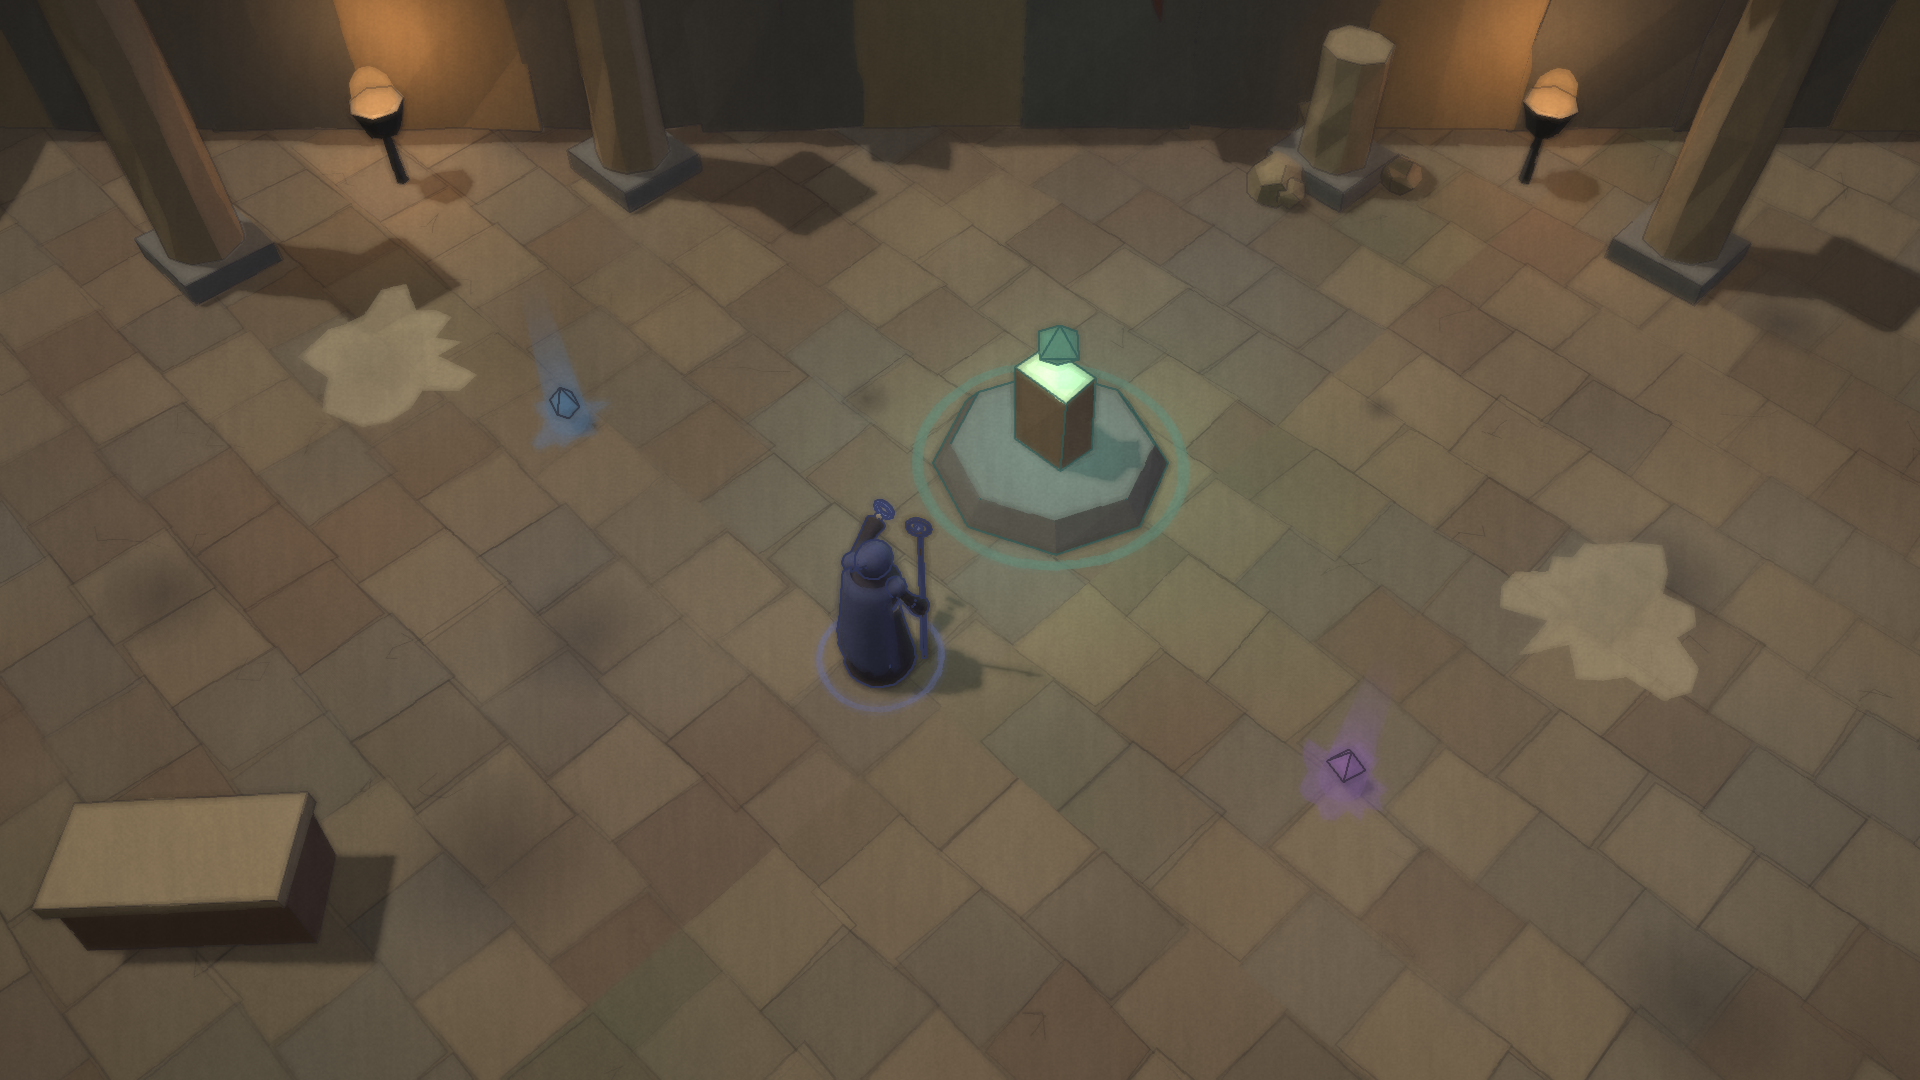
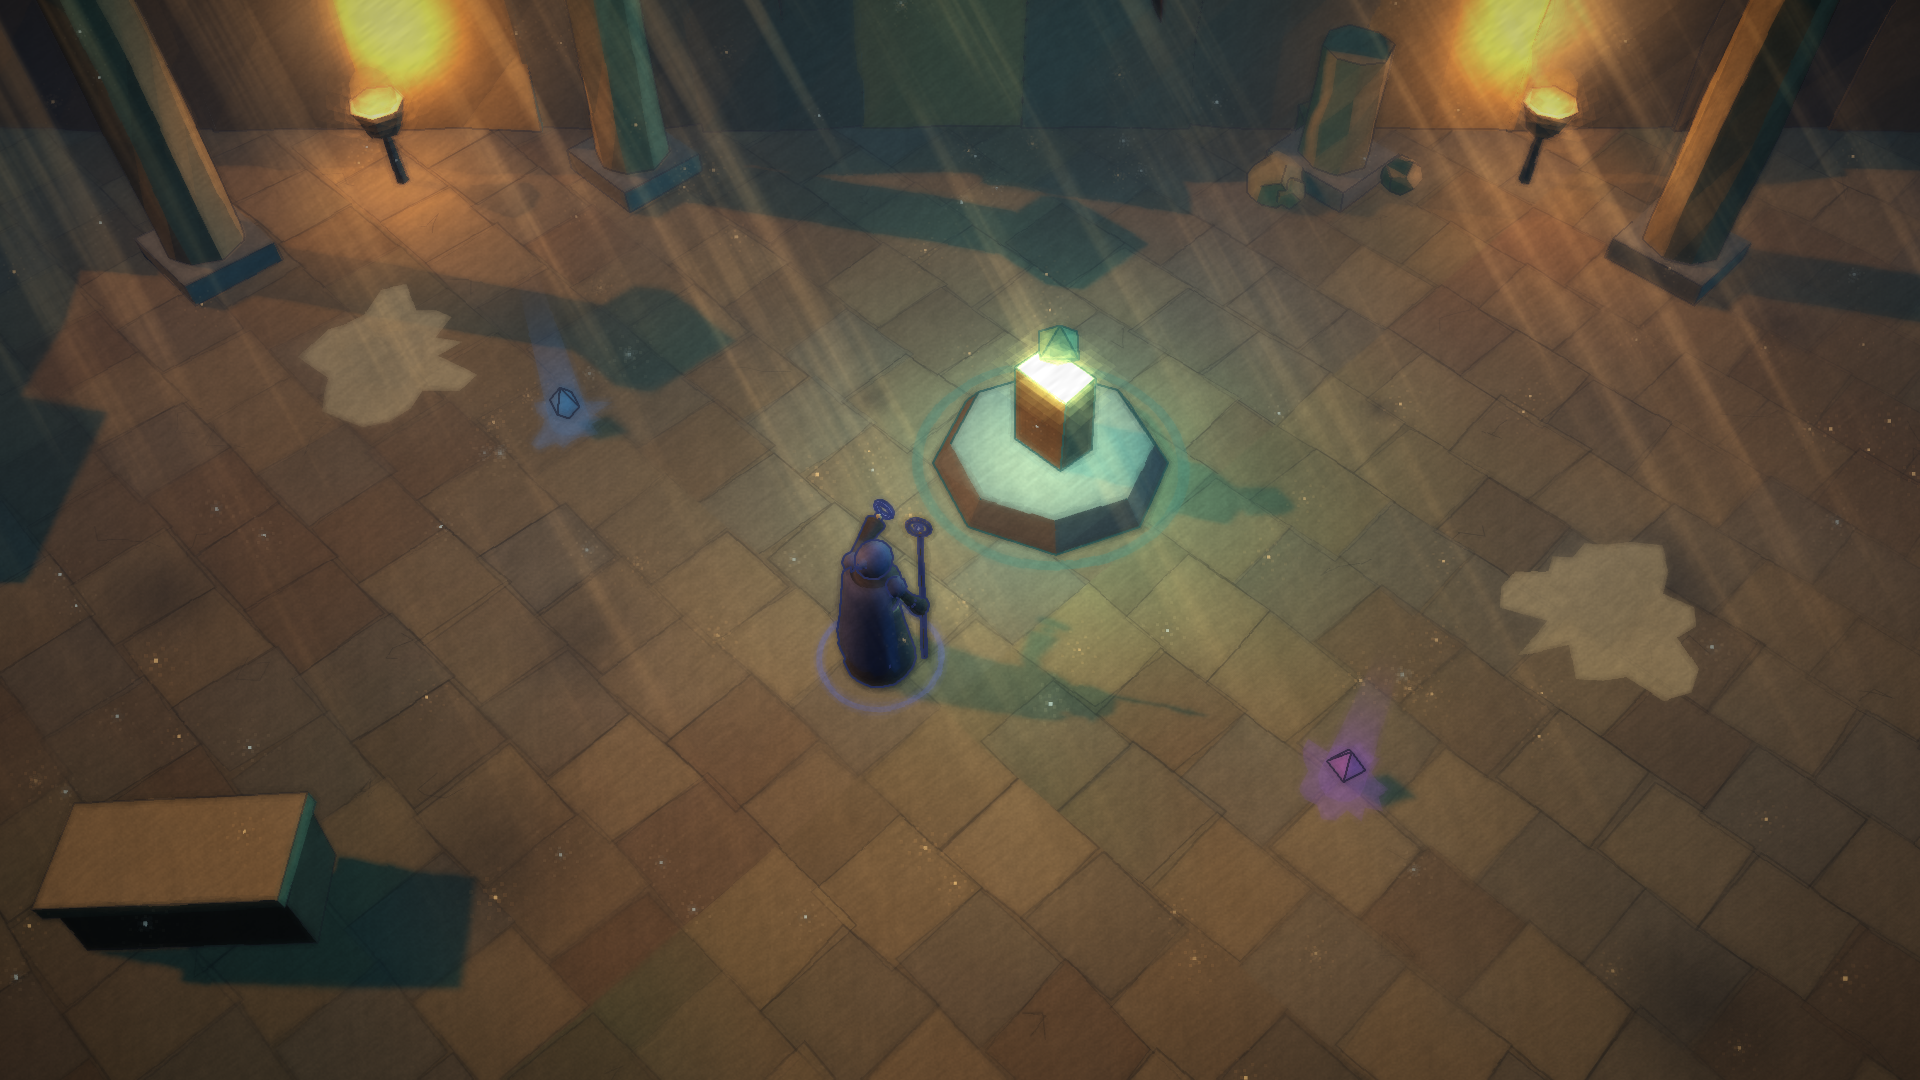
Add Midjourney-flavored cinematic grade to scene stills
Warm key, teal fill and rim, light pool, embers, bloom, haze, god rays,
split-tone grade and brush texture; style=spec keeps the restrained look.

Claude-Session: https://claude.ai/code/session_01WyumHdJ2qJjryyZvfybPmP

diff --git a/ui-mockups/scenes/scene.js b/ui-mockups/scenes/scene.js
@@ -7,6 +7,9 @@ import * as THREE from '../vendor/three.module.min.js';
 const q = new URLSearchParams(location.search);
 const SHOT = q.get('shot') || 'room';
 const COLORBLIND = q.get('cb') === '1';
+// 'mj' (default): cinematic, painterly grade in the classic Midjourney vein. 'spec': the restrained section 75-85 look.
+const STYLE = q.get('style') || 'mj';
+const MJ = STYLE === 'mj';
 const W = 1920, H = 1080;
 
 // ---------- palette (section 76) ----------
@@ -403,7 +406,7 @@ function brazier(pos) {
   g.add(mesh(new THREE.CylinderGeometry(0.05, 0.08, 0.9, 5), metal(P.coldStone), CLS.env, [0, 0.45, 0]));
   const fire = new THREE.Mesh(new THREE.SphereGeometry(0.28, 8, 6), new THREE.MeshBasicMaterial({ color: 0xe0a060, transparent: true, opacity: 0.8 }));
   fire.position.y = 1.28; fire.scale.y = 1.4; g.add(fx(fire));
-  const l = new THREE.PointLight(0xe8a868, 6, 7, 1.8); l.position.y = 1.6; g.add(l);
+  const l = new THREE.PointLight(0xe8a868, MJ ? 22 : 6, MJ ? 10 : 7, 1.8); l.position.y = 1.6; g.add(l);
   return place(g, pos);
 }
 function banner(pos, yaw) {
@@ -418,7 +421,7 @@ function shrine(pos) {
   g.add(mesh(new THREE.OctahedronGeometry(0.28, 0), mat(P.interact, { emissive: P.interact, emissiveIntensity: 0.55 }), cls, [0, 1.8, 0]));
   const ring = new THREE.Mesh(new THREE.RingGeometry(1.4, 1.52, 48), new THREE.MeshBasicMaterial({ color: P.interact, transparent: true, opacity: 0.55, depthWrite: false }));
   ring.rotation.x = -Math.PI / 2; ring.position.y = 0.02; g.add(fx(ring));
-  const l = new THREE.PointLight(0x7fc0b0, 10, 7, 1.6); l.position.y = 2; g.add(l);
+  const l = new THREE.PointLight(0x7fc0b0, MJ ? 30 : 10, MJ ? 10 : 7, 1.6); l.position.y = 2; g.add(l);
   return place(g, pos);
 }
 
@@ -530,15 +533,29 @@ function projectile(from, to, t) {
   brushStroke([back, back.clone().lerp(p, 0.5).add(new THREE.Vector3(0, 0.05, 0)), p], P.danger, 0.07, 0.5);
 }
 
-// ---------- lighting: continuous, restrained ----------
-scene.add(new THREE.HemisphereLight(0xd8cdb8, 0x393641, SHOT === 'boss' ? 0.9 : 1.05));
-const key = new THREE.DirectionalLight(0xf0e2c8, SHOT === 'boss' ? 1.4 : 1.9);
-key.position.set(-6, 14, 4); key.castShadow = true;
+// ---------- lighting ----------
+// spec: continuous and restrained. mj: low warm key, cool teal fill, strong rim, pools of light.
+scene.add(MJ ? new THREE.HemisphereLight(0x6f98b0, 0x16141c, SHOT === 'boss' ? 0.5 : 0.6)
+             : new THREE.HemisphereLight(0xd8cdb8, 0x393641, SHOT === 'boss' ? 0.9 : 1.05));
+const key = MJ ? new THREE.DirectionalLight(0xffb878, SHOT === 'boss' ? 1.9 : 2.2) : new THREE.DirectionalLight(0xf0e2c8, SHOT === 'boss' ? 1.4 : 1.9);
+key.position.set(MJ ? -10 : -6, MJ ? 9 : 14, MJ ? 6 : 4); key.castShadow = true;
 key.shadow.mapSize.set(2048, 2048);
 Object.assign(key.shadow.camera, { left: -16, right: 16, top: 16, bottom: -16, near: 1, far: 40 });
 key.shadow.bias = -0.0008; key.shadow.radius = 5;
 scene.add(key);
-const rim = new THREE.DirectionalLight(0x8a94c8, 0.5); rim.position.set(6, 5, -8); scene.add(rim);
+const rim = new THREE.DirectionalLight(MJ ? 0x7fd0e0 : 0x8a94c8, MJ ? 1.6 : 0.5); rim.position.set(6, 5, -8); scene.add(rim);
+if (MJ) {
+  // a shaft of warm light over the fight, and drifting embers / dust motes
+  const pool = new THREE.SpotLight(0xffc890, SHOT === 'boss' ? 45 : 32, 30, 0.36, 0.9, 1.2);
+  pool.position.set(-3, 16, 3); pool.target.position.set(0, 0, 0); scene.add(pool, pool.target);
+  const n = 420, pos = new Float32Array(n * 3), cols = new Float32Array(n * 3);
+  for (let i = 0; i < n; i++) {
+    pos.set([(hash3(i, 1, 2) - 0.5) * 26, 0.2 + hash3(i, 3, 4) * 5, (hash3(i, 5, 6) - 0.5) * 26], i * 3);
+    const warm = hash3(i, 7, 8) > 0.35; cols.set(warm ? [1, 0.72, 0.4] : [0.6, 0.85, 0.95], i * 3);
+  }
+  const pg = new THREE.BufferGeometry(); pg.setAttribute('position', new THREE.BufferAttribute(pos, 3)); pg.setAttribute('color', new THREE.BufferAttribute(cols, 3));
+  scene.add(fx(new THREE.Points(pg, new THREE.PointsMaterial({ size: 0.07, vertexColors: true, transparent: true, opacity: 0.85, depthWrite: false, blending: THREE.AdditiveBlending }))));
+}
 
 // ---------- floor ----------
 const floor = new THREE.Mesh(new THREE.PlaneGeometry(34, 34), new THREE.MeshStandardMaterial({ map: floorTexture(SHOT), roughness: 0.9 }));
@@ -682,11 +699,11 @@ function renderId() {
 const post = new THREE.ShaderMaterial({
   uniforms: {
     tColor: { value: rtColor.texture }, tNormal: { value: rtNormal.texture }, tDepth: { value: rtNormal.depthTexture }, tId: { value: rtId.texture },
-    res: { value: new THREE.Vector2(W, H) }, near: { value: camera.near }, far: { value: camera.far },
+    res: { value: new THREE.Vector2(W, H) }, near: { value: camera.near }, far: { value: camera.far }, mj: { value: MJ ? 1 : 0 },
   },
   vertexShader: 'varying vec2 vUv; void main(){ vUv = uv; gl_Position = vec4(position.xy, 0., 1.); }',
   fragmentShader: /* glsl */ `
-    uniform sampler2D tColor, tNormal, tDepth, tId; uniform vec2 res; uniform float near, far;
+    uniform sampler2D tColor, tNormal, tDepth, tId; uniform vec2 res; uniform float near, far, mj;
     varying vec2 vUv;
     float lin(float d){ float z = d*2.-1.; return (2.*near*far)/(far+near - z*(far-near)); }
     float hash(vec2 p){ return fract(sin(dot(p, vec2(127.1,311.7)))*43758.5453); }
@@ -768,8 +785,41 @@ const post = new THREE.ShaderMaterial({
       vec3 ink = inkFor(eid);
       float inkA = cover * (.9 + .1*noise(sp/3.));
       col = mix(col, ink, inkA);
-      // restrained vignette
-      vec2 q = vUv - .5; col *= 1. - .35*dot(q*vec2(1.2,1.), q*vec2(1.2,1.));
+      vec2 q = vUv - .5;
+      if(mj > .5){
+        // bloom: soft glow from bright pigment and light sources
+        vec3 glow = vec3(0.);
+        for(int k=0; k<24; k++){
+          float a = float(k)*2.39996, r = 4. + float(k)*1.6;
+          vec3 c = toSRGB(texture2D(tColor, vUv + vec2(cos(a), sin(a))*r*px).rgb);
+          float l = dot(c, vec3(.3,.59,.11));
+          glow += c * smoothstep(.55, .95, l) * (1. - float(k)/28.);
+        }
+        col = min(col + glow/24. * vec3(1.15, .95, .75) * 1.3, vec3(1.25));
+        // atmospheric haze: far = warmer, dustier, lighter
+        float depthK = smoothstep(13., 21., d0);
+        col = mix(col, vec3(.36,.36,.42), depthK*.3);
+        // god rays falling from the upper left
+        vec2 rd = normalize(vec2(.55, -1.));
+        float band = fbm(vec2(dot(sp, vec2(-rd.y, rd.x))/38., dot(sp, rd)/900.));
+        float shaft = smoothstep(.5, .78, band) * smoothstep(.95, .1, vUv.y*.2 + (1.-vUv.x)*.0 + (1. - vUv.y)*.9) ;
+        col += vec3(1., .78, .5) * shaft * .16;
+        // split-tone grade: teal shadows, amber highlights, gentle S-curve, richer colour
+        float L = dot(col, vec3(.3,.59,.11));
+        col = mix(col, col*vec3(.78,.98,1.12), (1.-smoothstep(.0,.45,L))*.55);
+        col = mix(col, col*vec3(1.12,1.0,.82), smoothstep(.45,1.,L)*.5);
+        col = clamp(sat(col, 1.18), 0., 1.);
+        col = mix(col, col*col*(3.-2.*col), .45);
+        // painterly brush texture: short strokes along a diagonal
+        vec2 bd = vec2(.8,.6);
+        float br = noise(vec2(dot(sp,bd)/14., dot(sp, vec2(-bd.y,bd.x))/3.2));
+        col *= 1. + (br - .5)*.07;
+        // cinematic vignette
+        col *= 1. - .75*dot(q*vec2(1.1,1.), q*vec2(1.1,1.));
+      } else {
+        // restrained vignette
+        col *= 1. - .35*dot(q*vec2(1.2,1.), q*vec2(1.2,1.));
+      }
       gl_FragColor = vec4(col, 1.);
     }`,
 });

diff --git a/ui-mockups/README.md b/ui-mockups/README.md
@@ -15,6 +15,7 @@ Rendered PNGs are in `shots/`.
 
 `scenes/scene.html?shot=room|boss|shrine` (add `&cb=1` for the colourblind telegraph hatch) is a three.js stand-in for the in-game look. It is not game code; it exists to judge camera framing, line weights, palette, telegraph readability and the watercolour treatment before the Unreal build runs. `hud.html?bg=scene` lays the HUD over the room still.
 
+- Style: `style=mj` (the default) adds a cinematic grade in the classic Midjourney vein, at Mark's request on 2026-09-30. It uses a low warm key light, a cool teal fill, a strong rim light, a warm light pool over the fight, drifting embers, bloom, depth haze, god rays, a teal-and-amber split-tone grade and a painterly brush texture. `style=spec` keeps the restrained look from sections 75–85. The mj look goes beyond the spec's "restrained physical lighting" and "avoid thick volumetric magic" lines.
 - Camera (section 15): 38° vertical FOV, 45° yaw, −52° pitch, 1550 cm arm, 90 cm target offset. Units are metres.
 - Ink outlines (section 80): a class-ID pass stands in for custom stencil (1 player, 2 enemy, 3 elite, 4 boss, 5 interactable, 6 loot). The post shader draws edges from depth, normal and class discontinuities at 2.0 / 1.5 / 2.0 / 2.5 / 0.8 px, in #24212A, #30365A for the player and #543131 for elites.
 - Watercolour (sections 77–79): continuous Lambert-style lighting with roughness 0.82 and no cel bands, then a post pass with ~2 px wet-pigment drift off the ink line, soft bleed, edge pooling capped at 8%, two-octave pigment variation (±5% brightness, ±7% saturation), granulation, and paper fibres at 0.035 / 0.020 amplitude. The paper is screen-space here; in Unreal it must be world-anchored.
